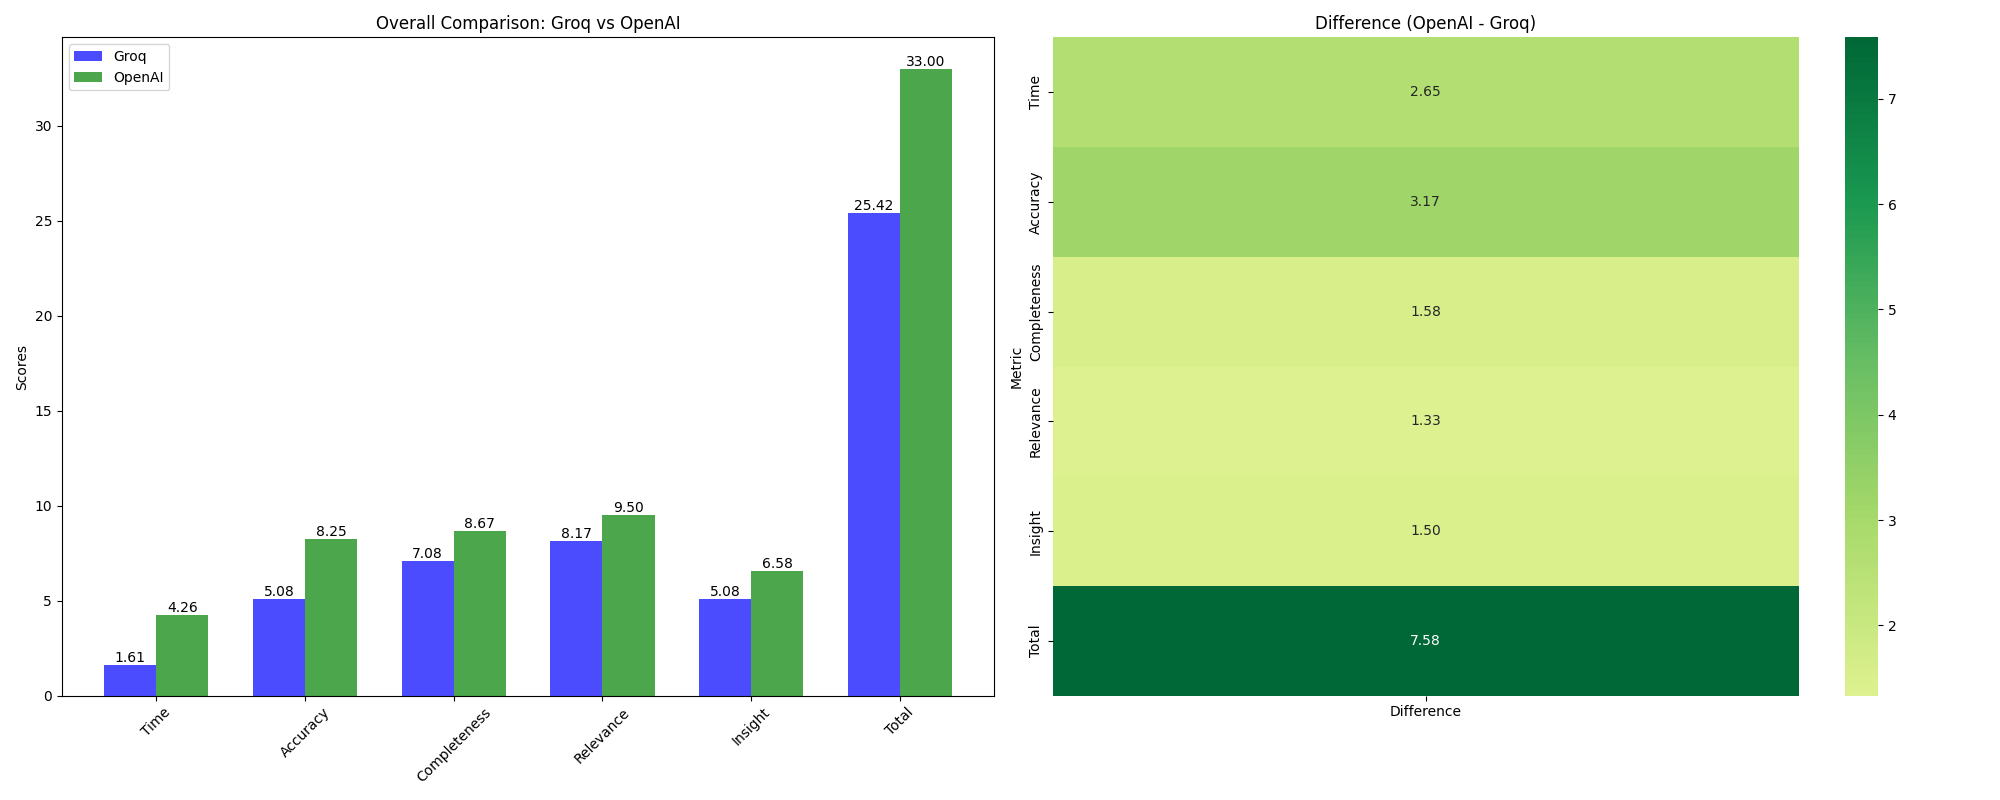
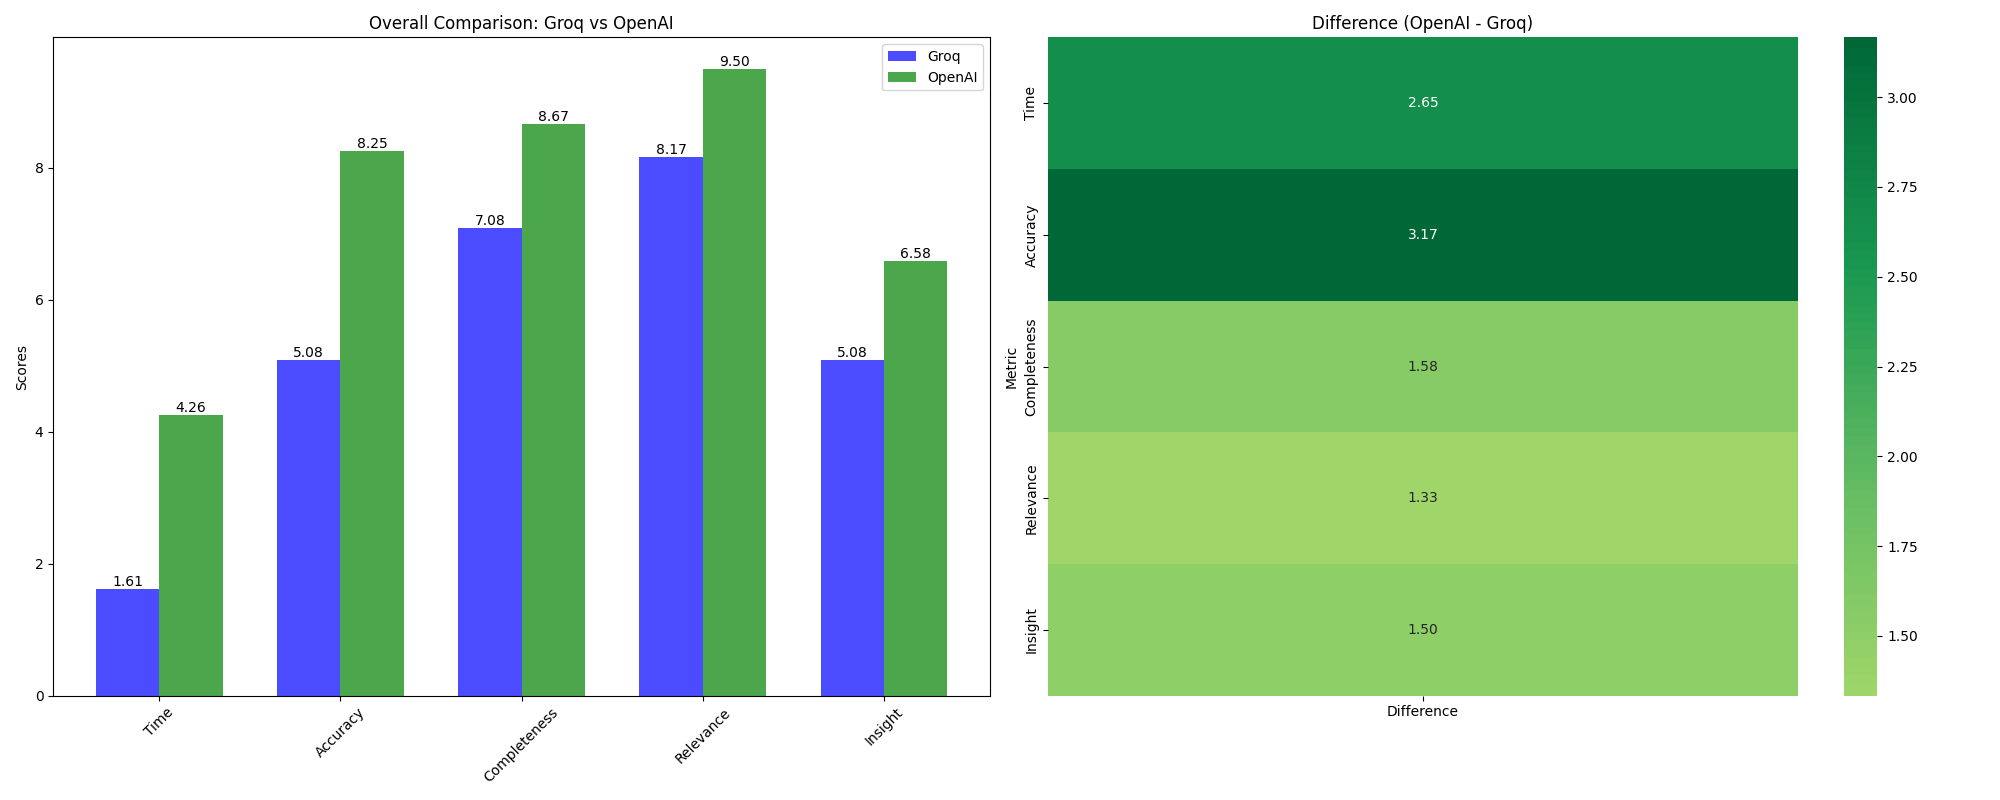
Update image paths in README and remove unnecessary metric in analysis.py

diff --git a/analysis.py b/analysis.py
@@ -129,7 +129,7 @@ def performance_vs_speed_scatter(df):
 
 def improved_overall_comparison(df):
     # Calculate mean scores for each metric
-    metrics = ['Time', 'Accuracy', 'Completeness', 'Relevance', 'Insight', 'Total']
+    metrics = ['Time', 'Accuracy', 'Completeness', 'Relevance', 'Insight']
     groq_means = [df[f'Groq_{m}'].mean() for m in metrics]
     openai_means = [df[f'OpenAI_{m}'].mean() for m in metrics]
 

diff --git a/README.md b/README.md
@@ -91,17 +91,17 @@ For each image, we prepared multiple prompts using the judge LLM (Claude 3.5 Son
 
 ### 3.1 Speed Comparison
 
-| ![Speed Comparison Bar Chart](assets/speed_comparison_bar.png) | ![Speed Comparison Box Plot](assets/speed_comparison_box.png) |
+| ![Speed Comparison Bar Chart](report/images/speed_comparison_bar.png) | ![Speed Comparison Box Plot](report/images/speed_comparison_box.png) |
 | :------------------------------------------------------------: | :-----------------------------------------------------------: |
 |                   Speed Comparison Bar Chart                   |                   Speed Comparison Box Plot                   |
 
-![Speed Scatter Plot](assets/speed_scatter.png)
+![Speed Scatter Plot](report/images/speed_scatter.png)
 
 The speed comparison clearly shows that the Groq LPU consistently outperforms OpenAI's model in terms of response time. Groq's model demonstrates a significant speed advantage, with an average response time of 1.61 seconds compared to OpenAI's 4.26 seconds, representing a speed improvement of approximately 2.6x.
 
 ### 3.2 Performance Metrics
 
-| ![Performance Radar Chart](assets/performance_radar.png) | ![Performance Grouped Bar Chart](assets/performance_grouped_bar.png) |
+| ![Performance Radar Chart](report/images/performance_radar.png) | ![Performance Grouped Bar Chart](report/images/performance_grouped_bar.png) |
 | :------------------------------------------------------: | :------------------------------------------------------------------: |
 |                 Performance Radar Chart                  |                    Performance Grouped Bar Chart                     |
 
@@ -109,19 +109,19 @@ The performance metrics show that while OpenAI's model generally scores higher a
 
 ### 3.3 Speed vs Performance
 
-![Speed vs Performance Scatter Plot](assets/performance_vs_speed_scatter.png)
+![Speed vs Performance Scatter Plot](report/images/performance_vs_speed_scatter.png)
 
 This scatter plot provides a crucial insight into the trade-off between speed and performance. While OpenAI's model achieves higher total scores, it does so at the cost of longer processing times. Groq's model delivers competitive performance scores with much faster response times.
 
 ### 3.4 Overall Comparison
 
-![Overall Comparison Parallel Coordinates](assets/overall_comparison_parallel.png)
+![Overall Comparison Parallel Coordinates](report/images/overall_comparison_parallel.png)
 
 The parallel coordinates plot offers a comprehensive view of how the models compare across all metrics. It visualizes the trade-offs between speed and various performance aspects, highlighting Groq's superior speed and OpenAI's edge in accuracy and completeness.
 
 ### 3.5 Time Savings
 
-![Time Savings Area Chart](assets/time_savings_area.png)
+![Time Savings Area Chart](report/images/time_savings_area.png)
 
 This area chart illustrates the cumulative time savings achieved by using Groq's model. As the number of queries increases, the time saved becomes increasingly significant, demonstrating the potential efficiency gains in large-scale applications.
 
